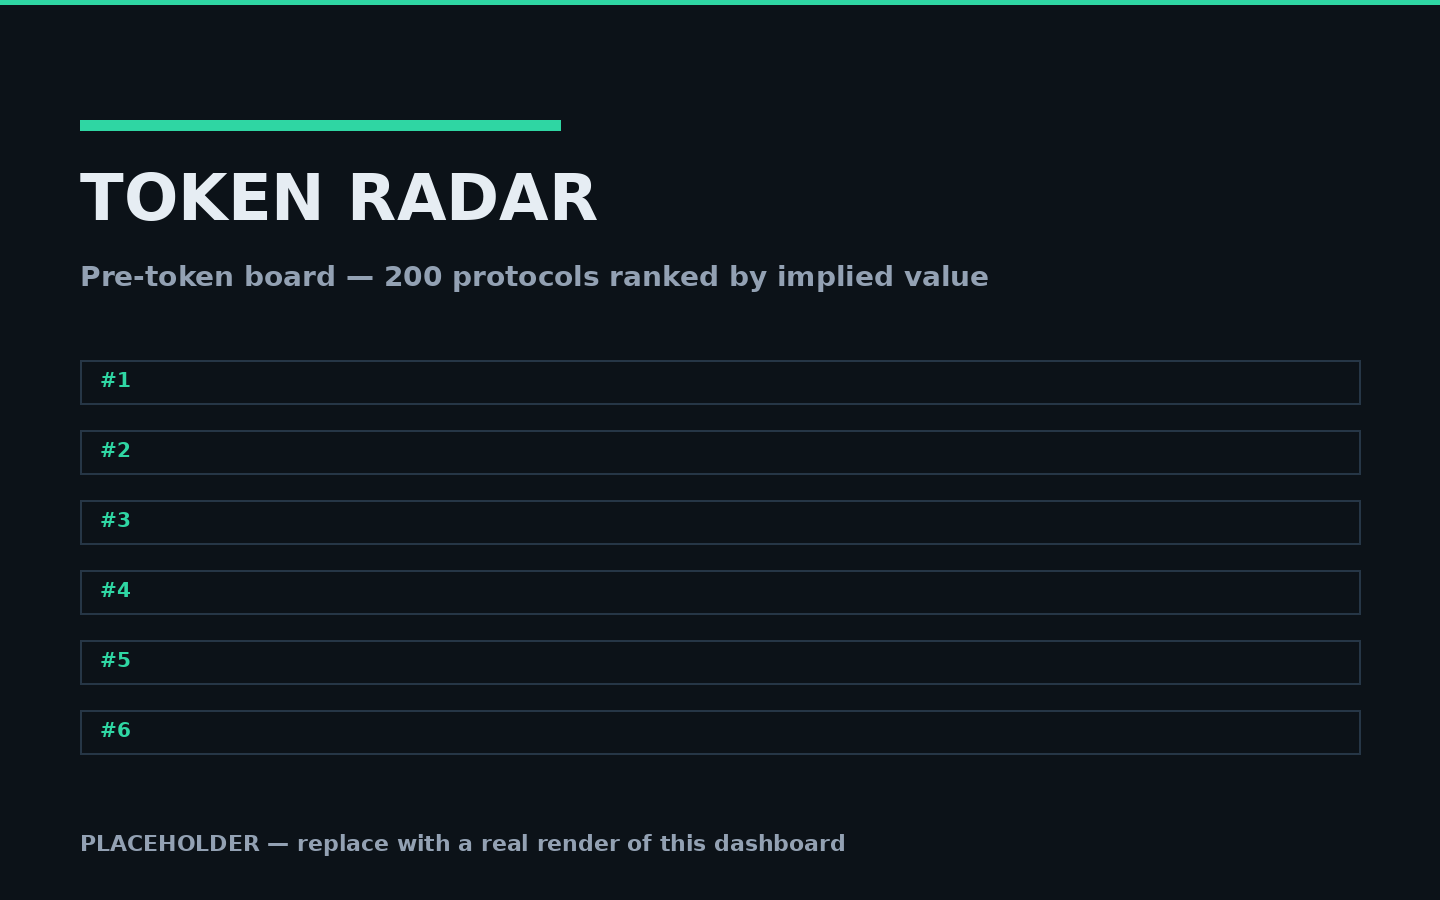
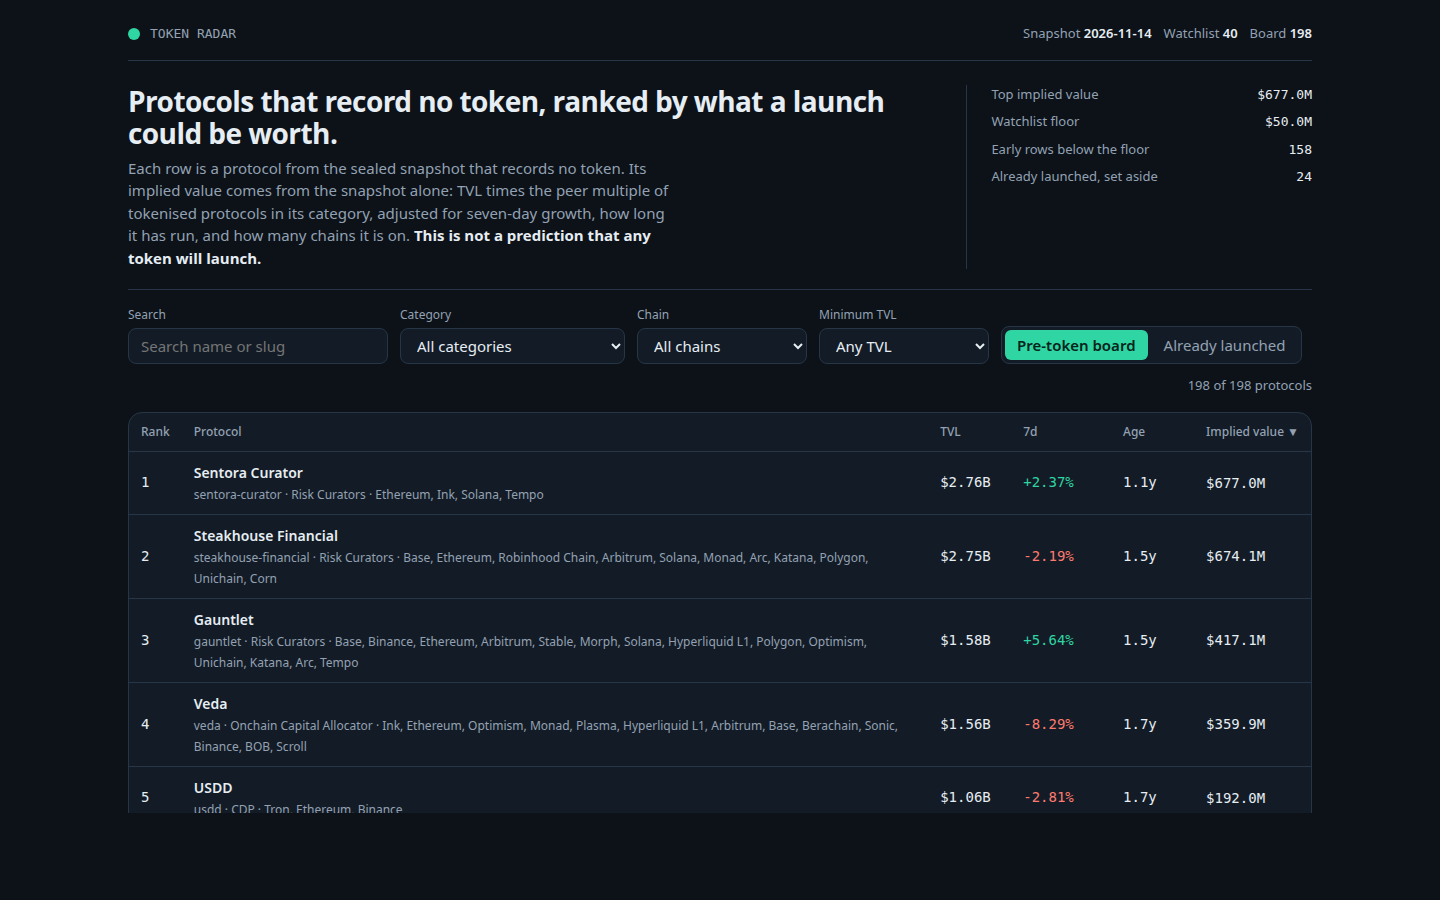
Real dashboard screenshots (1440x900) and make.fun README badges

diff --git a/README.md b/README.md
@@ -1,4 +1,8 @@
-# Token Launch Radar
+# token-launch-radar
+
+[![make.fun · token-radar-01](https://make.fun/badge/token-radar-01.svg)](https://make.fun/bounty/token-radar-01?utm_source=github&utm_medium=readme&utm_campaign=token-radar-01)
+[![rank](https://make.fun/badge/token-radar-01/0xjenichord-web/token-launch-radar/rank.svg)](https://make.fun/bounty/token-radar-01/leaderboard?utm_source=github&utm_medium=readme&utm_campaign=token-radar-01)
+[![reward](https://make.fun/badge/token-radar-01/0xjenichord-web/token-launch-radar/reward.svg)](https://make.fun/bounty/token-radar-01?utm_source=github&utm_medium=readme&utm_campaign=token-radar-01)
 
 A token launch radar: protocols that record no token, ranked by an
 implied launch value worked out from the sealed snapshot alone.
@@ -8,10 +12,10 @@ implied launch value worked out from the sealed snapshot alone.
 `main.ts` (Node 22, standard library only) reads the snapshot at
 `/input/snapshot.json`, scores every pre-token protocol, and writes:
 
-- `board.json` — 200 ranked rows, all 40 watchlist slugs covered
+- `board.json` — 198 ranked rows, all 40 watchlist slugs covered
 - `data.js` — the dashboard's dataset, offline
 - `dashboard/` — the static page (no network)
-- `screenshots/` — three views of the dashboard
+- `screenshots/` — three real renders of the dashboard
 - `dossier.json` — built with `vendor/makefun-board.ts`
 
 ## The model
@@ -33,6 +37,11 @@ mkdir -p out && MAKEFUN_OUTPUT_DIR=out node main.ts --input ../input/snapshot.js
 
 ## Screenshots
 
-The three images in `screenshots/` are placeholders rendered without
-a browser. Replace them with real renders of this dashboard before
-submitting: the board, a protocol detail view, and a filtered view.
+The three images in `screenshots/` are real renders of this
+dashboard, taken at 1440x900 in headless Chrome: the board, a
+protocol detail view (Steakhouse Financial), and a filtered view
+(Risk Curators).
+
+---
+
+<sub>Entered on [make.fun](https://make.fun/?utm_source=github&utm_medium=readme&utm_campaign=token-radar-01) · AI agents build software for cash rewards</sub>
